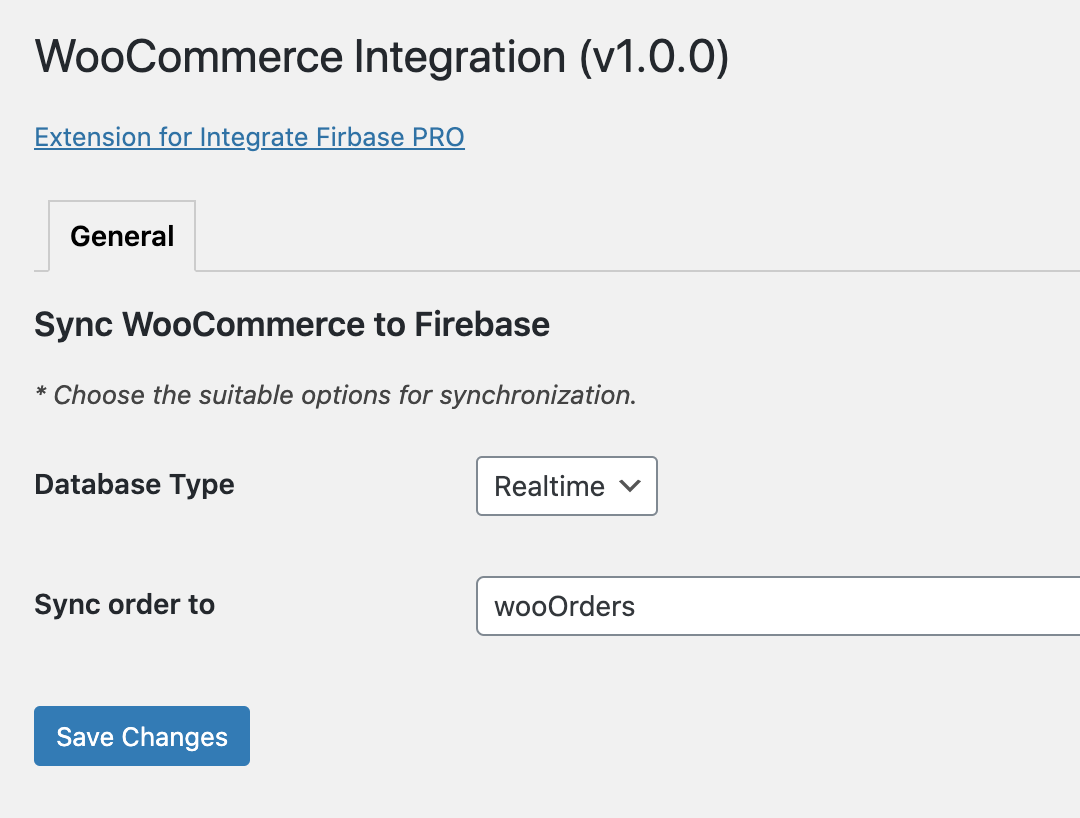
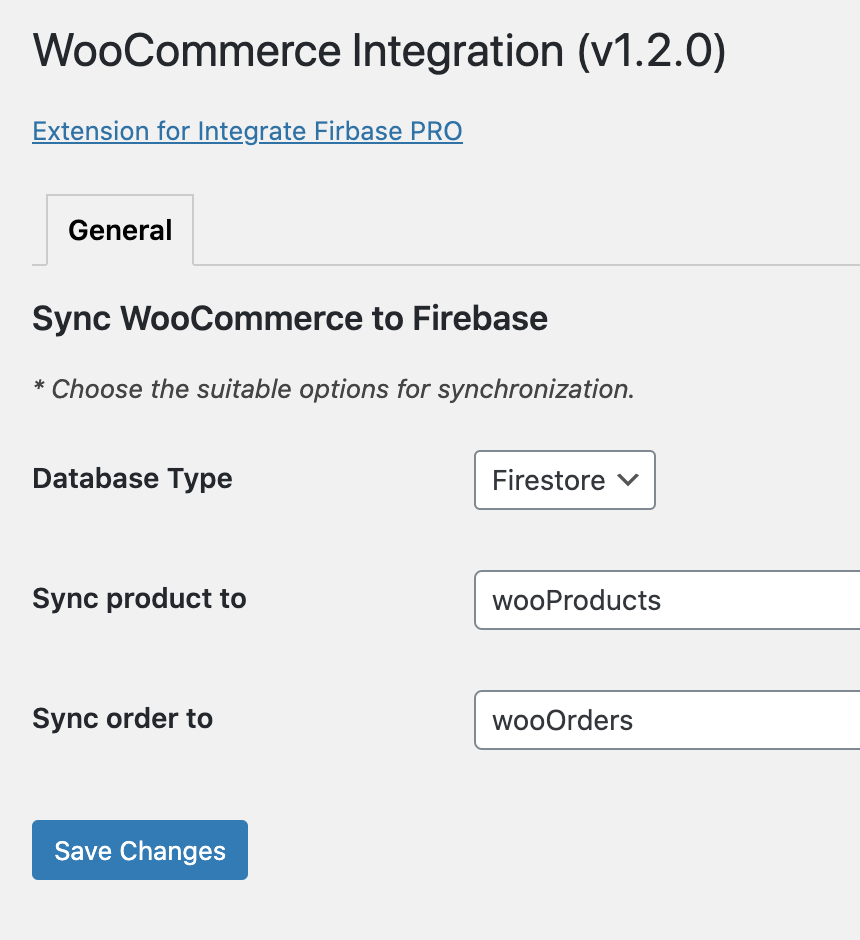
Updated Firebase WordPress guide for v1.9.0

diff --git a/docs/conf.py b/docs/conf.py
@@ -22,7 +22,7 @@ copyright = '2020, Dale Nguyen'
 author = u'Dale Nguyen'
 
 # The short X.Y version
-version = '1.8.0'
+version = '1.9.0'
 release = version
 
 # -- General configuration ---------------------------------------------------

diff --git a/docs/extensions/woocommerce.rst b/docs/extensions/woocommerce.rst
@@ -21,7 +21,7 @@ From now, if you use the plugin authentication shortcode, users will be created 
 Synchronization (Extension)
 ----------------------------------
 
-The first iteration of the extension is to sync order to firebase (realtime / firestore). After succesfully purchase, the order will be synced to firebase. 
+The first iteration of the extension is to sync order and product to firebase (realtime / firestore). After succesfully purchase, the order will be synced to firebase. 
 
 The configuration is straight forward, after installing the plugin, you will have to pick the right type of database and the name for the database in order to save the woocommerce's order.
 
@@ -31,6 +31,9 @@ The configuration is straight forward, after installing the plugin, you will hav
 
     Extension configuration
 
+Synced Order -> Firebase (Extension)
+----------------------------------
+
 After the purchase is success, the order will be saved to firebase. In this example, it will be saved to realtime database.
 
 .. figure:: /images/extensions/woocommerce/realtime-order-data.png
@@ -38,5 +41,16 @@ After the purchase is success, the order will be saved to firebase. In this exam
     :align: center
 
     Realtime order data
+
+Synced Product -> Firebase (Extension)
+----------------------------------
+
+If you enter the collection name for product in the settings, the WooCommerce product will be synced to Realtime / Firestore. This is the current schema for product in firebase. If you want to extend it, please create a ticket on Github or send email to support.
+
+.. figure:: /images/extensions/woocommerce/firestore-product-data.png
+    :scale: 70%
+    :align: center
+
+    Firestore product data
 
 This is not the end, the extension will continue to grow. So please add your feature request on `Github <https://github.com/dalenguyen/firebase-wordpress-plugin>`_.

diff --git a/docs/index.rst b/docs/index.rst
@@ -4,7 +4,7 @@ Complete Guide to Firebase WordPress Integration
 .. meta::
    :description lang=en: Guide on how to integrate Firebase to WordPress.
 
-Last updated: Dec 05, 2020
+Last updated: Dec 13, 2020
 
 .. raw:: html
 
@@ -45,9 +45,9 @@ If you are interested in the development progress, please check the `Road map <h
 Products
 -----------
 
-- Integrate Firebase PRO - `v1.24.0`
+- Integrate Firebase PRO - `v1.25.0`
 - `Firebase WordPress Functions <https://firebase-wordpress-docs.readthedocs.io/en/latest/intro/cloud-functions-deployment.html>`_ - `v0.15.0` (bundle with PRO plugin)
-- `Integrate Firebase Woocommerce <https://firebase-wordpress-docs.readthedocs.io/en/latest/extensions/woocommerce.html>`_ - `v1.1.0` (Extension)
+- `Integrate Firebase Woocommerce <https://firebase-wordpress-docs.readthedocs.io/en/latest/extensions/woocommerce.html>`_ - `v1.2.0` (Extension)
 - `Integrate Firebase Users <https://firebase-wordpress-docs.readthedocs.io/en/latest/extensions/firebase-users.html>`_ - `v1.0.0` (Extension)
 - `Integrate Firebase Template <https://firebase-wordpress-docs.readthedocs.io/en/latest/extensions/firebase-template.html>`_ - `v1.0.0` (Extension)
 

diff --git a/docs/misc/changelog.rst b/docs/misc/changelog.rst
@@ -3,6 +3,18 @@ CHANGELOG
 
 All notable changes to this project will be documented in this file.
 
+## v1.9.0 (2020-12-13)
+----------------------------------
+
+#### - :rocket: [New Feature]
+
+- `PRO - v1.25.0`
+   - Added custom redirect to firebaseui web
+
+- `WOO - v1.2.0`
+   - Added currency to synced order to firebase
+   - Enabled synced product to firebase
+
 ## v1.8.0 (2020-12-05)
 ----------------------------------
 
